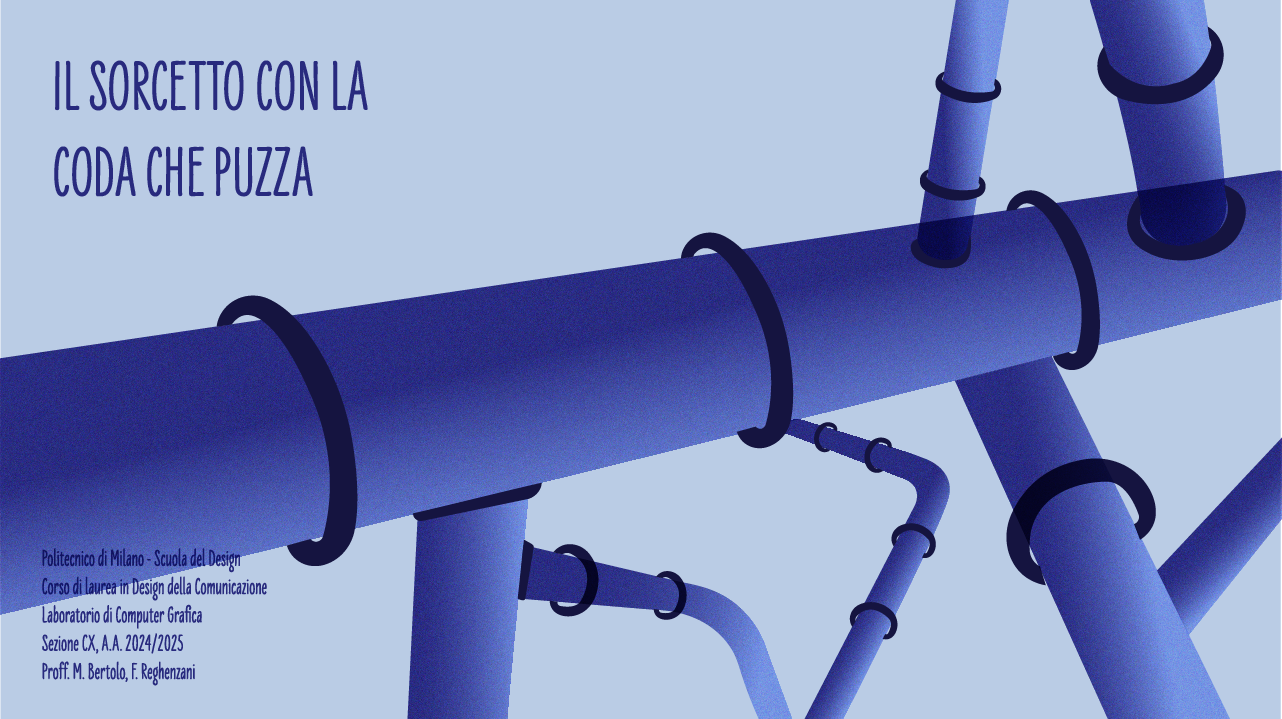
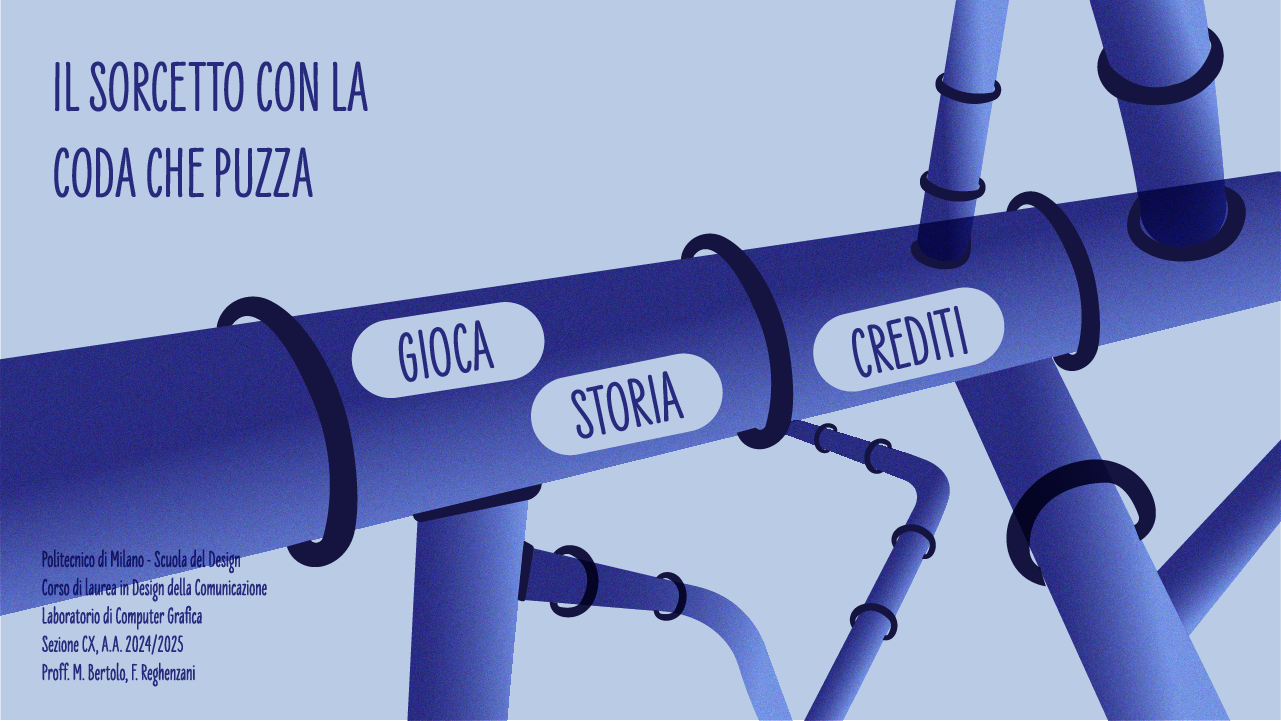
aggiunta pulsanti

diff --git a/src/scenes/cover.js b/src/scenes/cover.js
@@ -1,22 +1,22 @@
 let img_background_cover;
-let img_button_game;
+let img_button_gioca;
 
 let background_cover;
-let button_game;
+let button_gioca;
 
 function preload(s) {
     img_background_cover = PP.assets.image.load(s, "assets/images/cover/cover.png");
-    img_button_game      = PP.assets.image.load(s, "assets/images/istruzioni/down.png");
+    img_button_gioca      = PP.assets.image.load(s, "assets/images/cover/gioca.png");
 
 }
 
 
 
 function create(s) {
-    background_cover = PP.assets.image.add(s, img_background_cover, 0, 0, 0, 0);
-    button_game      = PP.assets.image.add(s, img_button_game, 217, 57, 0, 0);
+    background_cover  = PP.assets.image.add(s, img_background_cover, 0, 0, 0, 0);
+    button_gioca      = PP.assets.image.add(s, img_button_gioca, 352, 305, 0, 0);
 
-    PP.interactive.mouse.add (button_game, "pointerdown", change_scene_livello_1)
+    PP.interactive.mouse.add (button_gioca, "pointerdown", change_scene_livello_1)
     
 }
 
